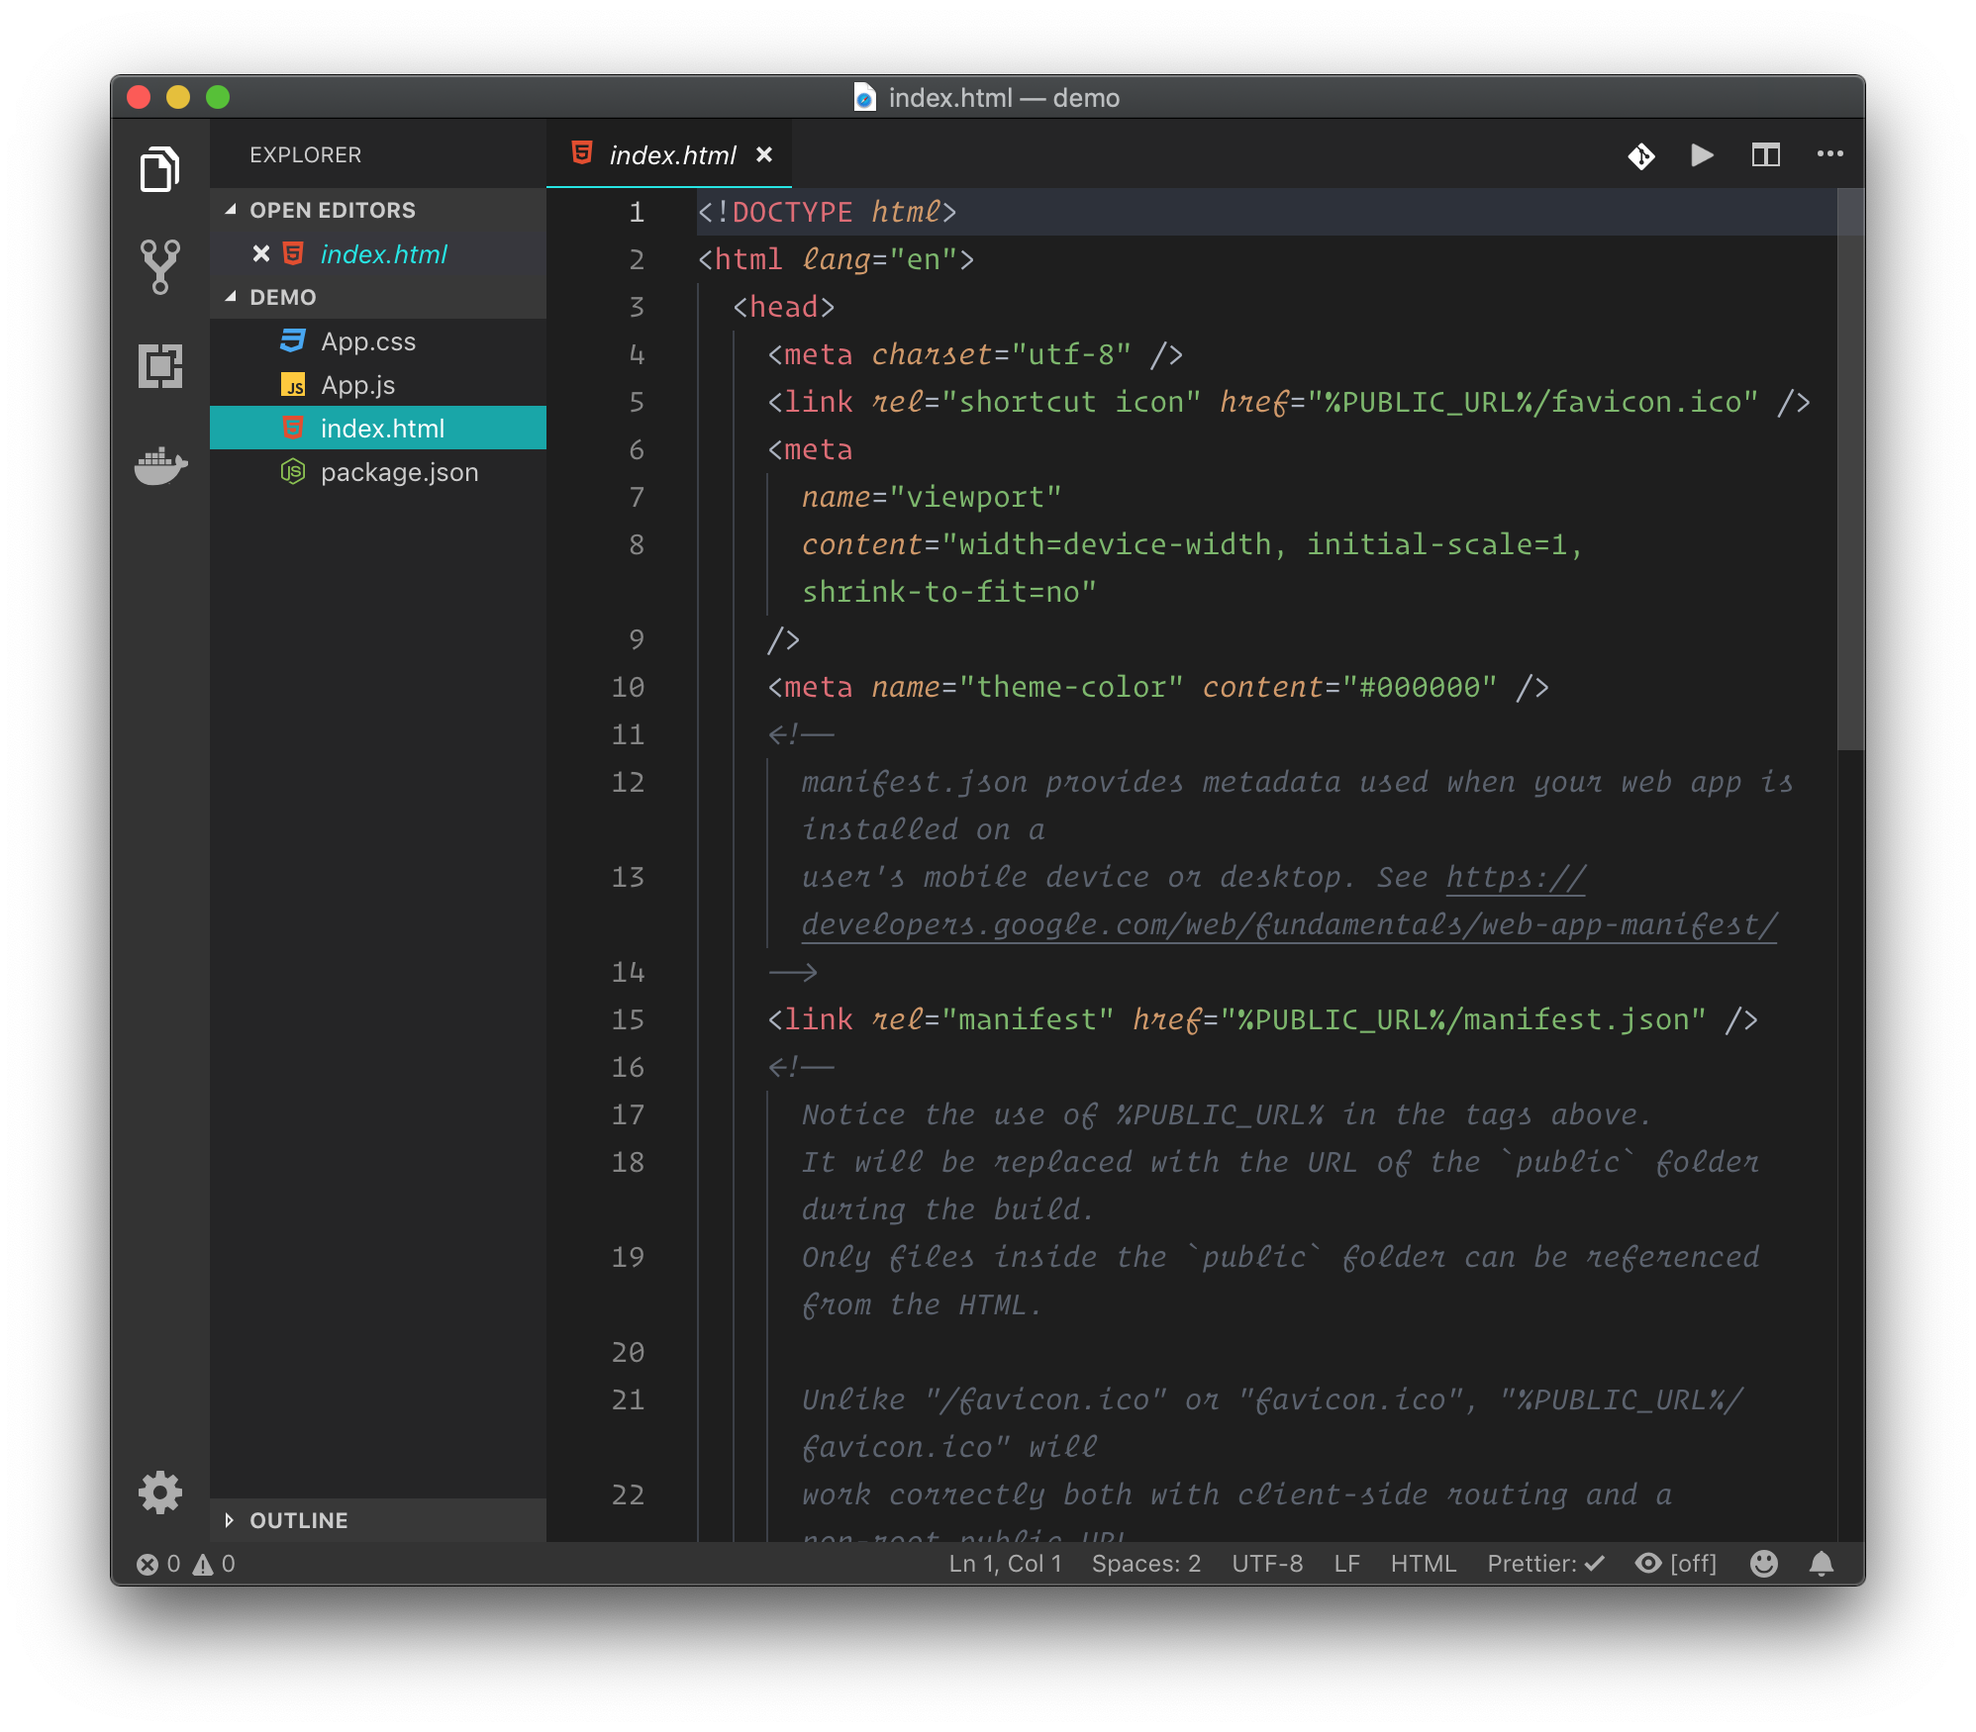
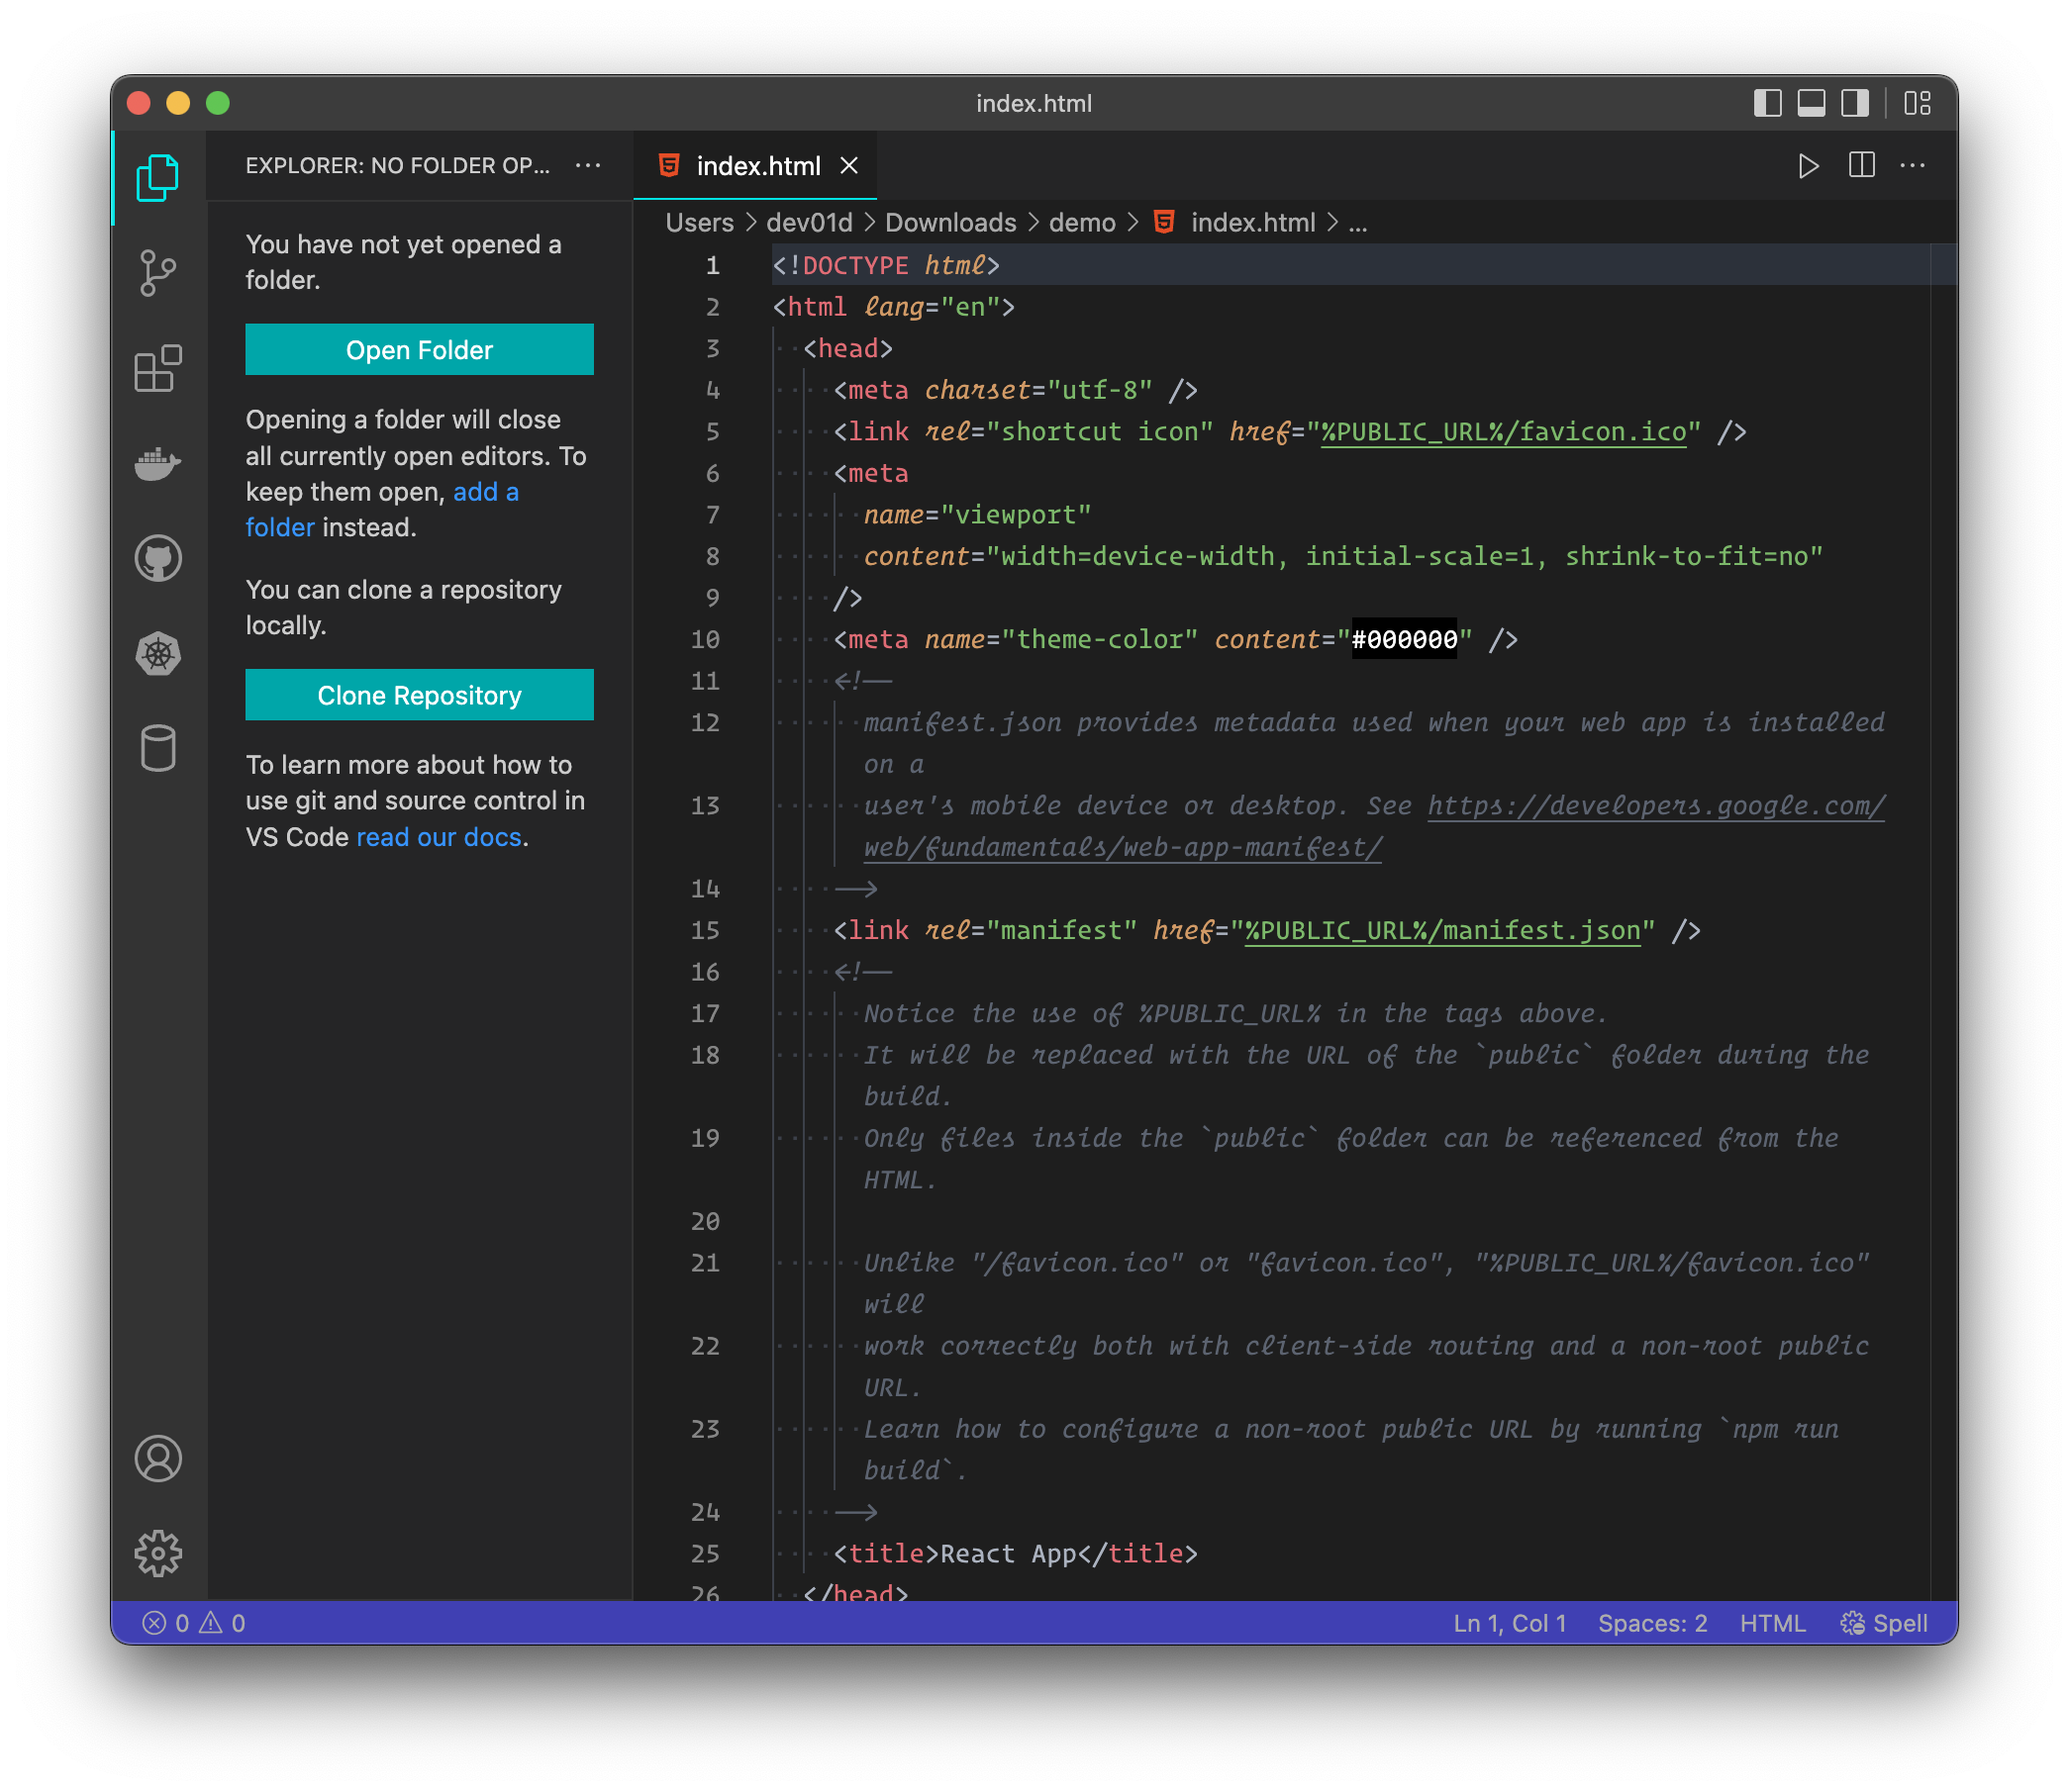
Update screenshots

diff --git a/CHANGELOG.md b/CHANGELOG.md
@@ -1,5 +1,10 @@
 # Change Log
 
+## 1.2.2
+
+- Update theme pictures
+- Other security updates
+
 ## 1.2.1
 
 #### Added
